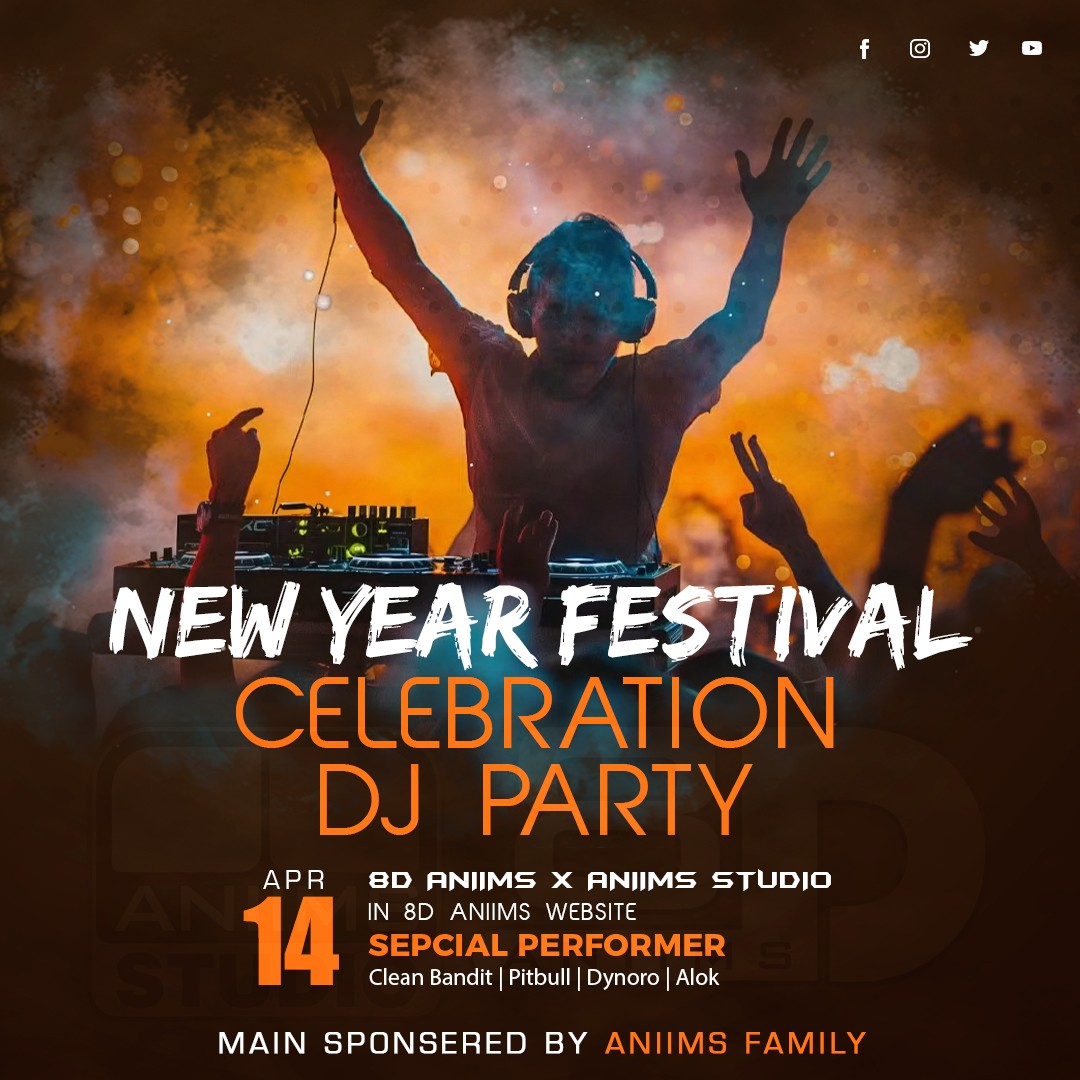
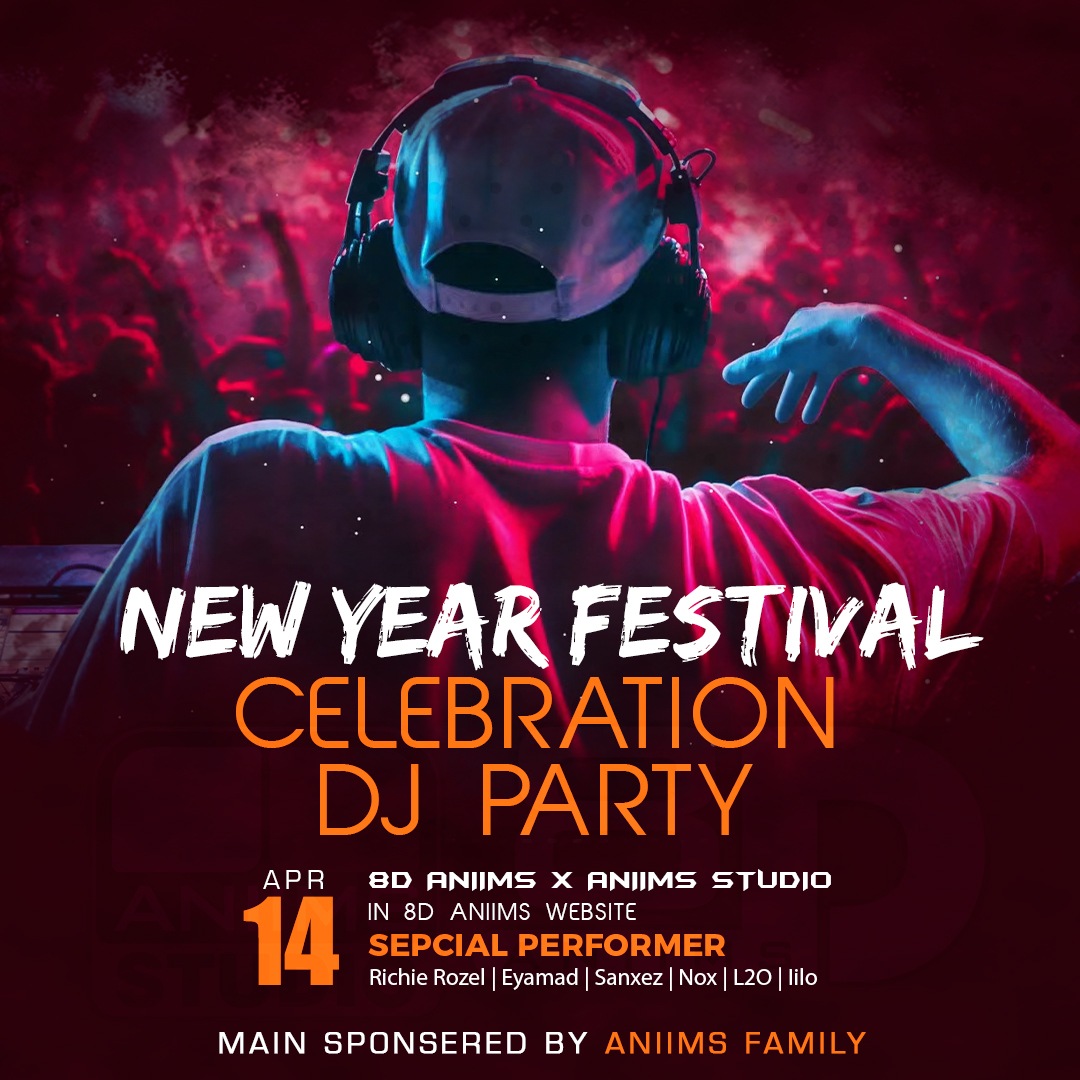
update 123
new year festival dj party

diff --git a/index.html b/index.html
@@ -256,16 +256,16 @@ songs will be in 8D audio, slowed, reverb or normal.</p>
   <!-- ***** Main Banner_3 Area End ***** -->
 
      <!--***** Main Banner_1 Area Start *****-->
-  <!--<div class="main-banner">
+  <div class="main-banner">
     <div class="container">
       <div class="row">
         <div class="col-lg-6 align-self-center">
           <div class="header-text">
-            <h6>MONTHLY SPECIAL,</h6>
-            <h2>COMING SOON!</h2>
+            <h6>8D ANIIMS x ANIIMS STUDIO,</h6>
+            <h2>NEW YEAR FESTIVAL DJ PARTY!</h2>
             <h6>WITH 0.5.3 8D VERSION...</h6>
             <font color="#FF957E" size="4">☠ WARNING!.. use "<u>headphone</u> 🎧" or "<u>handfree</u> 🎧".</font>
-            <p>⦿ 8D ANIIMS x ANIIMS STUDIO - Loss 112</p>
+            <p>⦿ SPACIAL PERFORMER - Richie Rozel | Eyamad | Sanxez | Nox | L2O | Iilo</p>
             <div class="buttons">
               <div class="main-button">
                 <a href="author.html" target="_blank">Download our all 8D Audios</a>
@@ -277,13 +277,13 @@ songs will be in 8D audio, slowed, reverb or normal.</p>
         <div class="col-lg-5 offset-lg-1">
           <div class="owl-banner owl-carousel">
             <div class="item">
-              <img src="assets/images/poto-232.jpg" alt="">
+              <img src="assets/images/DJ PARTY.jpg" alt="">
             </div>
           </div>
         </div>
       </div>
     </div>
-  </div>-->
+  </div>
   <!--***** Main Banner_1 Area End ***** -->
 
   <!-- ***** Main Banner_2 Area Start ***** -->
